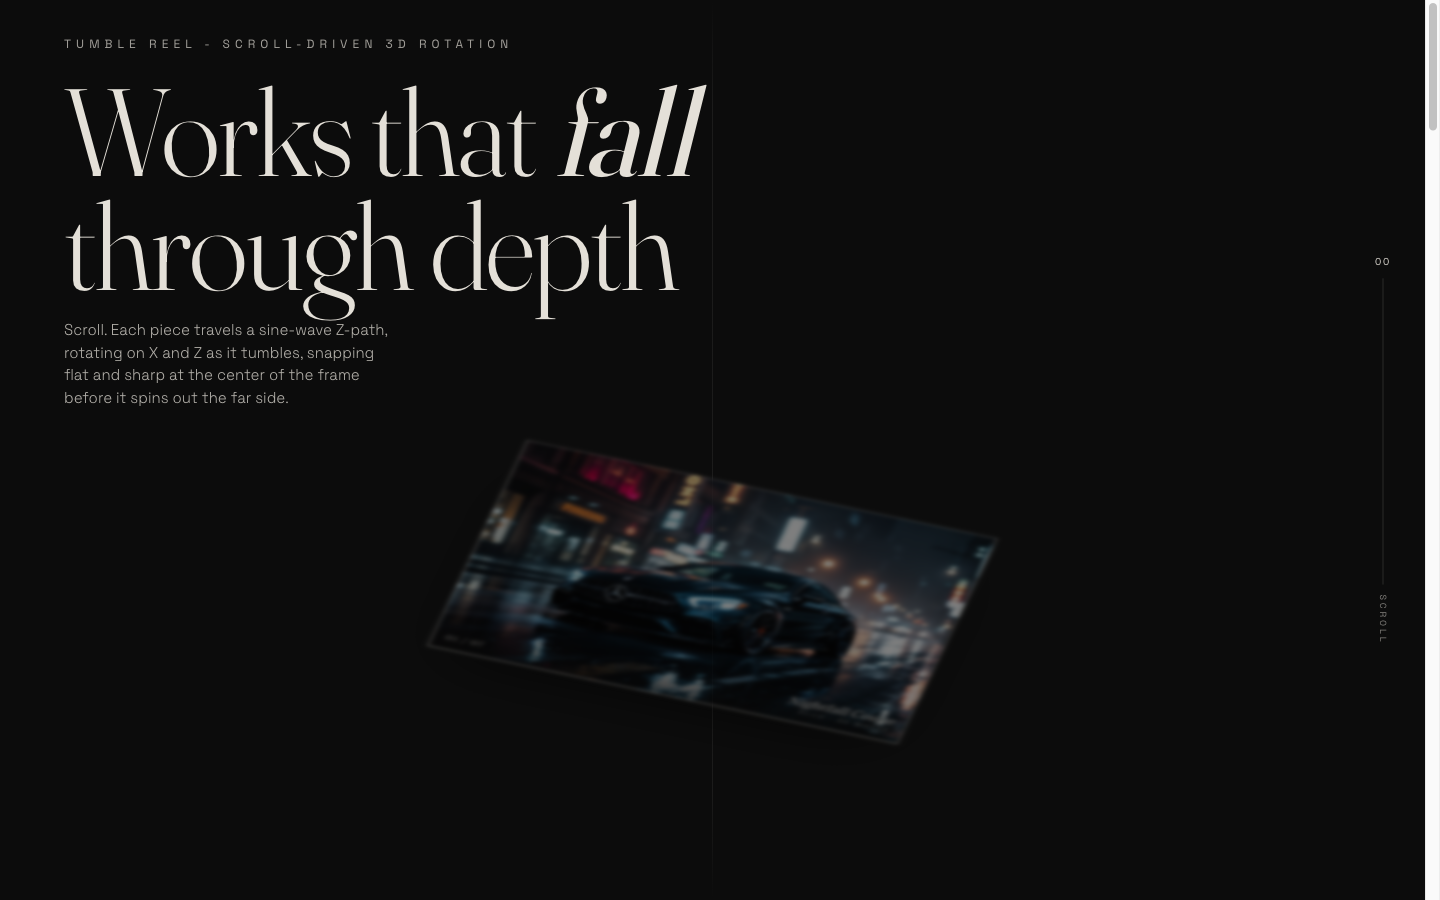
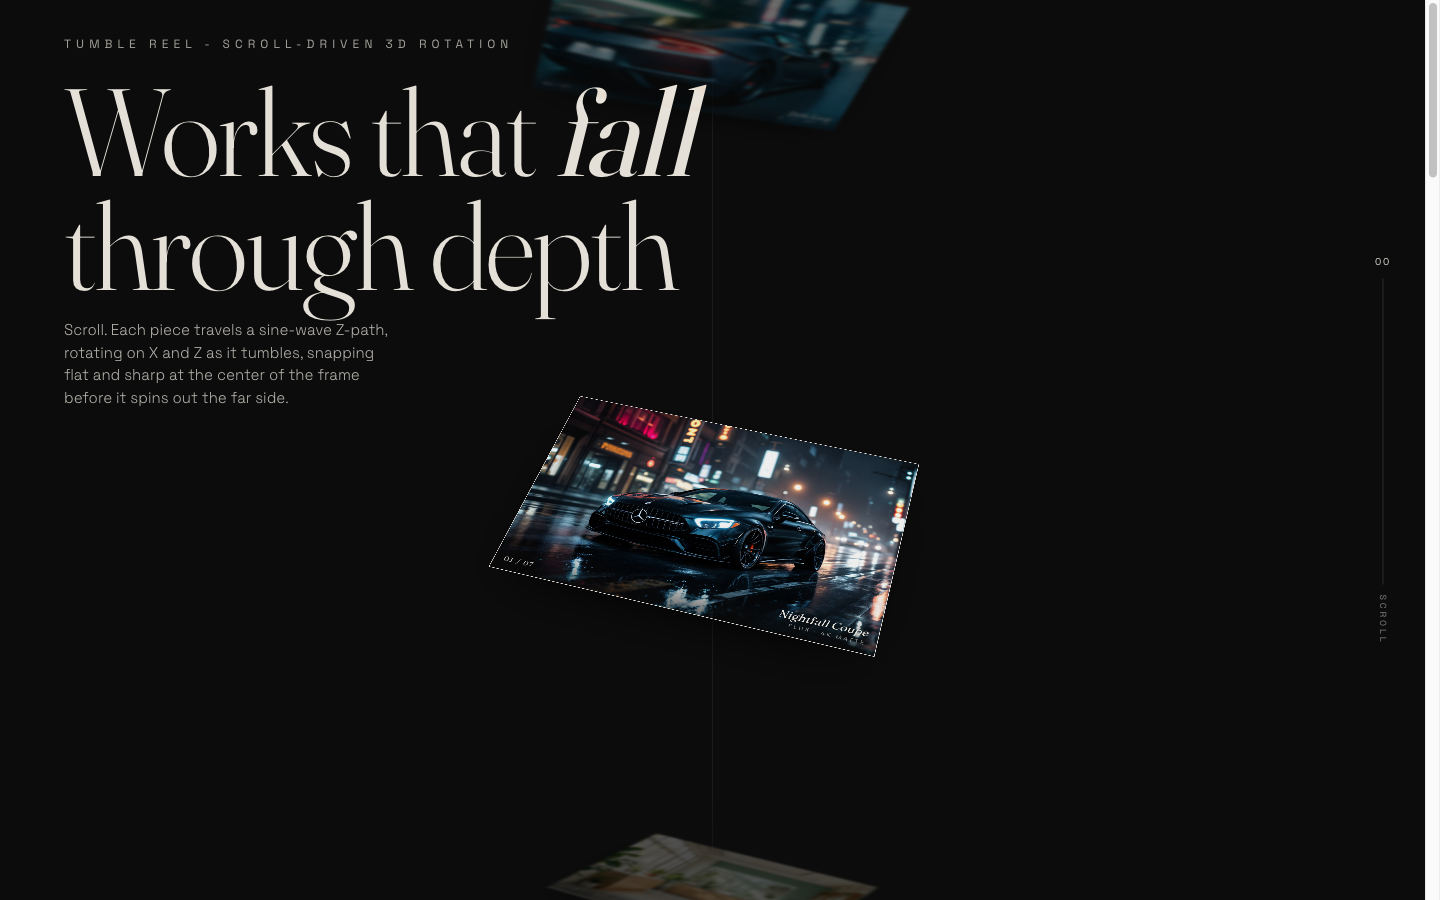
template library: +2 (batch 10 complete), 56 total
scroll-3d-rotation (perspective-on-scroll-container bug fixed, hero stack at scroll=0),
infinite-image-tube (cartoon-tooth asset removed, cylinder curvature strengthened).
batch 10 fully cataloged.

diff --git a/templates/scroll-3d-rotation.html b/templates/scroll-3d-rotation.html
@@ -64,11 +64,15 @@
     line-height:1.5;color:var(--matte);opacity:.78;font-weight:300;
   }
 
-  /* ---------- the reel ---------- */
+  /* ---------- the reel ----------
+     NOTE: perspective lives on each .card (via perspective() in its transform),
+     NOT on .reel. A perspective/transform/filter on .reel would make it the
+     containing block for position:fixed children and break the scroll=0 hero
+     overlay (fixed % offsets would resolve against the tall reel, not the
+     viewport). Per-card perspective keeps the tumble identical and frees
+     position:fixed to track the viewport. */
   .reel{
     position:relative;z-index:1;
-    perspective:1200px;          /* the 3D depth viewing distance */
-    perspective-origin:50% 50%;
   }
   .slot{
     height:88vh;                 /* vertical rhythm: one work per ~viewport */
@@ -79,6 +83,30 @@
      center its card in the lower-center band so the tumble is fully visible
      below the title yet sharp and above the fold. */
   .slot:first-of-type{height:96vh;align-items:center;padding-top:14vh}
+
+  /* ---------- HERO STACK (scroll=0 only) ----------
+     At rest the catalog thumbnail must show the REEL, not one lonely card.
+     While parked at the top we overlay the first three slots into the first
+     viewport: a pinned card at center plus one peeking above and one below,
+     each parked at a different point on the tumble path (set via JS), so the
+     reel of tumbling works reads instantly. The class is removed on first
+     scroll and the normal per-slot flow + scroll physics resume untouched. */
+  .reel.hero .slot:nth-of-type(1),
+  .reel.hero .slot:nth-of-type(2),
+  .reel.hero .slot:nth-of-type(3){
+    position:fixed;left:0;right:0;
+    height:auto;padding:0;
+    pointer-events:none;
+  }
+  /* center pinned card */
+  .reel.hero .slot:nth-of-type(1){top:50%;transform:translateY(-50%);z-index:3}
+  /* the work peeking from above, deeper on the path */
+  .reel.hero .slot:nth-of-type(2){top:50%;transform:translateY(-128%);z-index:1}
+  /* the work peeking from below, deeper on the path */
+  .reel.hero .slot:nth-of-type(3){top:50%;transform:translateY(28%);z-index:1}
+  /* a spacer keeps document height stable so the page is still scrollable */
+  .hero-spacer{display:block;height:96vh;width:1px;pointer-events:none}
+  body:not(.is-hero) .hero-spacer{display:none}
   .card{
     position:relative;
     width:var(--card-w);
@@ -86,8 +114,11 @@
     transform-style:preserve-3d;
     will-change:transform,filter,opacity;
     backface-visibility:hidden;
-    /* JS writes --ty,--tz,--rx,--rz,--sc,--bl,--br,--op each frame */
+    /* JS writes --ty,--tz,--rx,--rz,--sc,--bl,--br,--op each frame.
+       perspective() is per-card (see .reel note) so the depth read survives
+       the scroll=0 fixed hero overlay. */
     transform:
+      perspective(1200px)
       translate3d(0, var(--ty,0px), var(--tz,0px))
       rotateX(var(--rx,0deg))
       rotateZ(var(--rz,0deg))
@@ -166,6 +197,11 @@
     /* media letterboxes inside the bone matte instead of cropping */
     .frame img,.frame video{object-fit:contain;background:var(--matte)}
     .meta{background:linear-gradient(0deg,rgba(12,12,12,.72),transparent)}
+    /* hero peeks ride tighter to the pinned card on a narrow column;
+       push the top peek clear of the sub-headline copy */
+    .reel.hero .slot:nth-of-type(1){transform:translateY(-44%)}
+    .reel.hero .slot:nth-of-type(2){transform:translateY(-150%)}
+    .reel.hero .slot:nth-of-type(3){transform:translateY(40%)}
   }
 
   /* ---------- reduced motion: collapse to a calm vertical fade-in, no rAF overrides ---------- */
@@ -301,6 +337,14 @@ WORKS.forEach((w, i) => {
   cards.push({ el:card, slot, work:w });
 });
 
+/* spacer preserves document height while the first 3 slots are pulled out of
+   flow into the fixed hero stack, so the page stays scrollable at scroll=0.
+   A <span> (not a div) so it never shifts the .slot:nth-of-type indexing. */
+const heroSpacer = document.createElement('span');
+heroSpacer.className = 'hero-spacer';
+heroSpacer.setAttribute('aria-hidden','true');
+reel.insertBefore(heroSpacer, reel.firstChild);
+
 /* ---- easing flavours: each returns a shaped 0..1 from a 0..1 input ---- */
 const EASE = {
   soft:    t => t<.5 ? 2*t*t : 1-Math.pow(-2*t+2,2)/2,                 // inOutQuad
@@ -312,7 +356,7 @@ const EASE = {
 /* ---- the per-frame transform writer ----
    p = signed -1..1 position of the card center relative to viewport center.
    0 = at rest (flat, full scale, sharp). +/-1 = far edges (deep, tumbling). */
-function applyTransform(idx, p) {
+function applyTransform(idx, p, sharp) {
   const c = cards[idx];
   const w = c.work;
   const ease = EASE[w.ease] || EASE.soft;
@@ -336,10 +380,12 @@ function applyTransform(idx, p) {
   // scale settles to 1 at rest, shrinks with depth
   const sc = 1 - shaped * 0.30;
 
-  // optical: defocus + dim away from the sharp rest plane
-  const bl = isMobile ? 0 : shaped * CFG.BLUR;
-  const br = 1 - shaped * (1 - CFG.DIMMIN);
-  const op = 1 - shaped * 0.28;
+  // optical: defocus + dim away from the sharp rest plane.
+  // a "sharp" card (the hero center) keeps near-zero blur + full brightness
+  // so it reads as a tumbling-yet-legible work, not a defocused ghost.
+  const bl = (sharp || isMobile) ? 0 : shaped * CFG.BLUR;
+  const br = sharp ? 1 - shaped * 0.10 : 1 - shaped * (1 - CFG.DIMMIN);
+  const op = sharp ? 1 : 1 - shaped * 0.28;
 
   const s = c.el.style;
   s.setProperty('--ty', ty.toFixed(1) + 'px');
@@ -358,14 +404,50 @@ function applyTransform(idx, p) {
 let ticking = false;
 let vh = window.innerHeight;
 
+/* HERO STACK state: while parked at the very top the first three slots are
+   pulled into a fixed overlay (see .reel.hero CSS) and each is pinned to a
+   distinct point on the tumble path, so the catalog thumbnail shows the REEL
+   of tumbling works, not one lonely card. The mid card is pinned only mildly
+   so it stays sharp + readable; the peeks above/below are pushed deeper so
+   they clearly recede and rotate. Exited on first real scroll. */
+let heroMode = true;
+// per-slot signature tilt at scroll=0 (signed p drives rotateX + Z-depth):
+//  - card 0 (center, pinned, mostly sharp) gets a clear but readable tilt
+//  - card 1 peeks from ABOVE (negative p -> recedes upward)
+//  - card 2 peeks from BELOW (positive p -> recedes downward)
+function heroPins() {
+  return isMobile
+    ? [ 0.30, -0.74, 0.80 ]   // mobile: fuller center tilt so 3D is obvious
+    : [ 0.26, -0.70, 0.78 ];  // desktop: center stays sharp + readable
+}
+
+function exitHero() {
+  if (!heroMode) return;
+  heroMode = false;
+  reel.classList.remove('hero');
+  document.body.classList.remove('is-hero');
+  onScroll();
+}
+
 function frame() {
   ticking = false;
   vh = window.innerHeight;
   const mid = vh / 2;
 
+  // While the hero stack is active, drive the first three cards from fixed
+  // pins (their slots are out of flow, so rect math would be meaningless).
+  if (heroMode) {
+    const pins = heroPins();
+    for (let i = 0; i < pins.length && i < cards.length; i++) {
+      applyTransform(i, pins[i], i === 0);   // center card kept sharp
+    }
+  }
+
   let bestIdx = -1, bestDist = Infinity;
 
   for (let i = 0; i < cards.length; i++) {
+    // hero-pinned cards are handled above; don't let rect math overwrite them
+    if (heroMode && i < 3) continue;
     const c = cards[i];
     const r = c.el.getBoundingClientRect();
     // skip work fully off-screen (cheap cull) but still settle near-edge cards
@@ -375,13 +457,13 @@ function frame() {
     const center = r.top + r.height / 2;
     // signed normalized position: how far the card center is from viewport center
     let p = (center - mid) / (vh * 0.62);
-    // FIRST-VIEWPORT SIGNATURE pin: while parked at the very top, force card #1
-    // to a fixed readable tumble so the scroll=0 thumbnail shows the mechanic.
-    if (i === 0 && window.scrollY <= 4) p = (isMobile ? 0.34 : 0.30);
     const dist = applyTransform(i, p);
 
     if (Math.abs(p) < 0.5 && dist < bestDist) { bestDist = dist; bestIdx = i; }
   }
+
+  // hero center card is the focused work for video playback
+  if (heroMode) bestIdx = 0;
 
   // focus management: play only the single closest-to-rest video
   for (let i = 0; i < cards.length; i++) {
@@ -414,30 +496,36 @@ function onScroll() {
 
 if (reduce) {
   // honor reduced-motion fully: no rAF, no inline transforms - CSS shows final state.
-  // ensure nothing we wrote earlier lingers (we never wrote in this branch).
+  // never enter the hero overlay; let the calm CSS fade-in own the page.
+  heroMode = false;
+  reel.classList.remove('hero');
+  document.body.classList.remove('is-hero');
   document.querySelector('.progress')?.setAttribute('hidden','');
 } else {
-  window.addEventListener('scroll', onScroll, { passive:true });
+  // FIRST-VIEWPORT SIGNATURE: enter the hero stack so the scroll=0 thumbnail
+  // shows three tumbling works (one pinned center + a peek above + a peek
+  // below), each at a distinct point on the tumble path.
+  reel.classList.add('hero');
+  document.body.classList.add('is-hero');
+
+  window.addEventListener('scroll', () => {
+    // any real scroll leaves the hero overlay and resumes normal flow
+    if (heroMode && window.scrollY > 2) exitHero();
+    onScroll();
+  }, { passive:true });
+  // wheel / touch intent also drops the hero overlay even before scrollY moves
+  window.addEventListener('wheel', () => { if (heroMode) exitHero(); }, { passive:true });
+  window.addEventListener('touchmove', () => { if (heroMode) exitHero(); }, { passive:true });
+
   window.addEventListener('resize', () => {
     isMobile = window.matchMedia('(max-width:640px)').matches;
     onScroll();
   }, { passive:true });
 
-  // FIRST-VIEWPORT SIGNATURE: run once so card #1 is mid-tumble at scroll=0.
-  // We pin its rest-position to a fixed, readable tumble (deterministic, layout-
-  // independent) so the catalog thumbnail clearly shows the mechanic: clearly
-  // rotated in 3D yet sharp enough to read the work.
-  function pinFirstTumble() {
-    const first = cards[0];
-    if (!first) return;
-    if (window.scrollY > 4) return;            // only while parked at the top
-    const SIG_P = isMobile ? 0.34 : 0.30;      // tuned tumble magnitude at load
-    applyTransform(0, SIG_P);
-  }
-  requestAnimationFrame(() => { frame(); pinFirstTumble(); });
-  // keep it pinned through the first few frames (after media decode / font swap)
-  setTimeout(pinFirstTumble, 120);
-  setTimeout(pinFirstTumble, 600);
+  // paint the hero stack across the first few frames (after media decode / font swap)
+  requestAnimationFrame(() => { frame(); });
+  setTimeout(() => { if (heroMode) frame(); }, 120);
+  setTimeout(() => { if (heroMode) frame(); }, 600);
 
   // pause all videos when tab hidden (battery/decode hygiene)
   document.addEventListener('visibilitychange', () => {

diff --git a/templates/infinite-image-tube.html b/templates/infinite-image-tube.html
@@ -20,17 +20,18 @@
    All paths are relative to /showcase/templates/  ->  ../assets/
    Tip: 8-14 entries reads best. The loop is seamless regardless.
    ============================================================ */
+/* Only strong, real ../assets/ frames map onto the cylinder. The earlier
+   cartoon-tooth mascot (meshy-refined-thumb.png) read as leftover placeholder
+   art and was removed. Cinematic 4K stills + video posters carry the award read. */
 const DATA = [
-  { src:"../assets/flux-car-4k.png",            kicker:"Still - 4K",      title:"Wet Neon Coupe",   meta:"FLUX - matte black on rain" },
+  { src:"../assets/flux-car-4k.png",            kicker:"Still - 4K",     title:"Wet Neon Coupe",   meta:"FLUX - matte black on rain" },
   { src:"../assets/gen/poster-flux-car-i2v.png",kicker:"Image to Video", title:"Nocturne Drive",   meta:"FLUX i2v - frame still" },
-  { src:"../assets/flux-clinic-4k.png",         kicker:"Still - 4K",      title:"Mint Consult Room",meta:"FLUX - clinic interior" },
-  { src:"../assets/sdxl.png",                   kicker:"Painterly",       title:"Autumn Fox",       meta:"SDXL - warm impasto" },
   { src:"../assets/gen/poster-kling-video.png", kicker:"Generative",     title:"Kling Sequence",   meta:"Kling - motion still" },
+  { src:"../assets/flux-clinic-4k.png",         kicker:"Still - 4K",     title:"Mint Consult Room",meta:"FLUX - clinic interior" },
+  { src:"../assets/gen/poster-heygen.png",      kicker:"Avatar",         title:"Spoken Portrait",  meta:"HeyGen - avatar still" },
+  { src:"../assets/sdxl.png",                   kicker:"Painterly",      title:"Autumn Fox",       meta:"SDXL - warm impasto" },
   { src:"../assets/gen/poster-veo-video.png",   kicker:"Generative",     title:"Veo Plate",        meta:"Veo - cinematic still" },
-  { src:"../assets/hf-tinysd.png",              kicker:"Lo-fi",           title:"Abstract Apple",   meta:"TinySD - low-step study" },
-  { src:"../assets/gen/poster-fal-video.png",   kicker:"Generative",     title:"Fal Render",       meta:"Fal - motion still" },
-  { src:"../assets/gen/poster-heygen.png",      kicker:"Avatar",          title:"Spoken Portrait",  meta:"HeyGen - avatar still" },
-  { src:"../assets/meshy-refined-thumb.png",    kicker:"3D",             title:"Refined Mesh",     meta:"Meshy - textured solid" }
+  { src:"../assets/gen/poster-fal-video.png",   kicker:"Generative",     title:"Fal Render",       meta:"Fal - motion still" }
 ];
 
 /* Brand chrome (interior color comes entirely from the images) */
@@ -323,11 +324,14 @@ function startTube(){
   renderer.setSize(innerWidth, innerHeight, false);
 
   const scene = new THREE.Scene();
-  scene.fog = new THREE.Fog(0x050505, 9.5, 18.0);
 
-  const camera = new THREE.PerspectiveCamera(46, innerWidth/innerHeight, 0.1, 100);
-  camera.position.set(0, 0, 9.4);
-  camera.lookAt(0,0,0);
+  // wide FOV + a camera parked close to the front plane = strong perspective,
+  // so the neighbouring planes visibly CURVE away around the tube rather than
+  // reading as a flat filmstrip. Phones get an even wider FOV so the two
+  // adjacent planes flank the front plane in frame at scroll=0.
+  const isPhone = window.matchMedia("(max-width:640px)").matches;
+  const FOV = isPhone ? 70 : 62;
+  const camera = new THREE.PerspectiveCamera(FOV, innerWidth/innerHeight, 0.1, 100);
 
   // a tube group we spin around Y
   const tube = new THREE.Group();
@@ -339,10 +343,22 @@ function startTube(){
   const COPIES = 2;
   const TOTAL = N * COPIES;
   const angStep = (Math.PI * 2) / N;      // angular gap between works in one ring
-  // radius scales with count so planes do not overlap
-  const planeW = 2.55, planeH = 1.78;
-  const circumferenceNeed = planeW * 1.18 * N;
-  const radius = Math.max(3.5, circumferenceNeed / (Math.PI * 2));
+  // 16:9 planes to match the cinematic source frames (no stretch on the stills)
+  const planeW = 2.72, planeH = 1.53;
+  // tighter packing (small gap factor) makes the ring wrap harder -> more curve.
+  // radius still scales with count so planes never overlap.
+  const circumferenceNeed = planeW * 1.06 * N;
+  const radius = Math.max(2.9, circumferenceNeed / (Math.PI * 2));
+
+  // park the camera just outside the front plane so foreshortening is strong;
+  // the gap is larger on phones (narrow portrait frame) so BOTH flanking
+  // planes stay in view either side of the front plane at scroll=0.
+  const camGap = isPhone ? 5.2 : 3.6;
+  camera.position.set(0, 0, radius + camGap);
+  camera.lookAt(0,0,0);
+
+  // fog hugs the back of the tube so far planes sink into the void (depth cue)
+  scene.fog = new THREE.Fog(0x050505, radius + camGap + 1.0, radius + camGap + 7.5);
 
   const texLoader = new THREE.TextureLoader();
   texLoader.crossOrigin = "anonymous";
@@ -379,9 +395,11 @@ function startTube(){
     varying float vFacing;
 
     void main(){
-      // blur amount grows as the plane faces away (vFacing -> 0)
+      // blur amount grows as the plane faces away (vFacing -> 0).
+      // stronger radius makes the curving side planes read as defocused depth,
+      // not a sharp flat strip.
       float away = 1.0 - vFacing;
-      float blur = away * away * 6.0;   // px-ish radius in texel units
+      float blur = away * away * 9.0;   // px-ish radius in texel units
 
       vec2 o = uTexel * blur;
 
@@ -397,9 +415,10 @@ function startTube(){
       c += texture2D(uTex, vUv + vec2(-o.x, -o.y));
       c /= 9.0;
 
-      // lighting: front planes are lit, side planes dim toward the void
-      // (floor kept high enough that the curved tube body stays legible)
-      float lit = mix(0.46, 1.0, smoothstep(0.0, 1.0, vFacing));
+      // lighting: front planes are lit, side planes dim toward the void.
+      // a lower floor lets the side planes sink into the dark so the tube body
+      // reads as a curving 3D form, while the front stays fully lit + sharp.
+      float lit = mix(0.34, 1.0, smoothstep(0.0, 1.0, vFacing));
       vec3 col = c.rgb * lit;
 
       // subtle lime rim on the front-most planes only
@@ -553,6 +572,12 @@ function startTube(){
   function onResize(){
     renderer.setSize(innerWidth, innerHeight, false);
     camera.aspect = innerWidth/innerHeight;
+    // re-evaluate the phone framing on orientation / breakpoint changes so the
+    // flanking planes stay in view and the curve stays strong on either layout
+    const phoneNow = window.matchMedia("(max-width:640px)").matches;
+    camera.fov = phoneNow ? 70 : 62;
+    const gapNow = phoneNow ? 5.2 : 3.6;
+    camera.position.z = radius + gapNow;
     camera.updateProjectionMatrix();
   }
   window.addEventListener("resize", onResize, {passive:true});
@@ -574,8 +599,11 @@ function startTube(){
   boot.classList.add("gone");
   setTimeout(()=>{ boot.remove(); }, 700);
 
-  // give it a gentle initial drift so the tube is alive at scroll=0
-  vel = 0.012;
+  // start with the hero work (index 0) facing the camera, then give a gentle
+  // initial drift so the tube is alive at scroll=0 without spinning the hero
+  // far off-centre before the catalog thumbnail is captured.
+  tube.rotation.y = 0;
+  vel = 0.006;
 
   let raf = 0;
   function tick(){